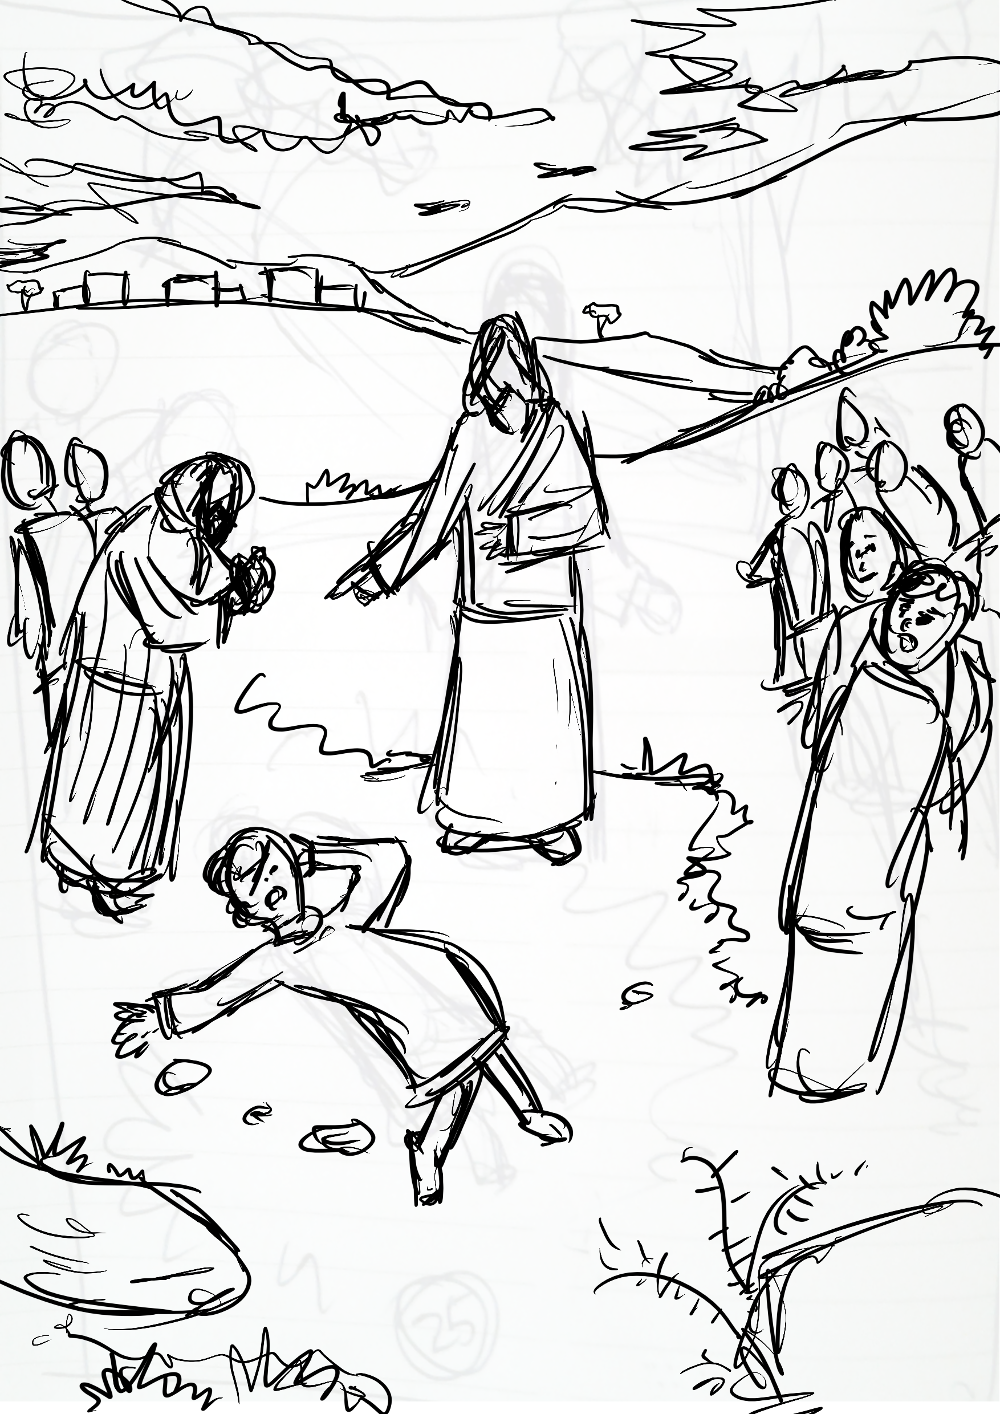
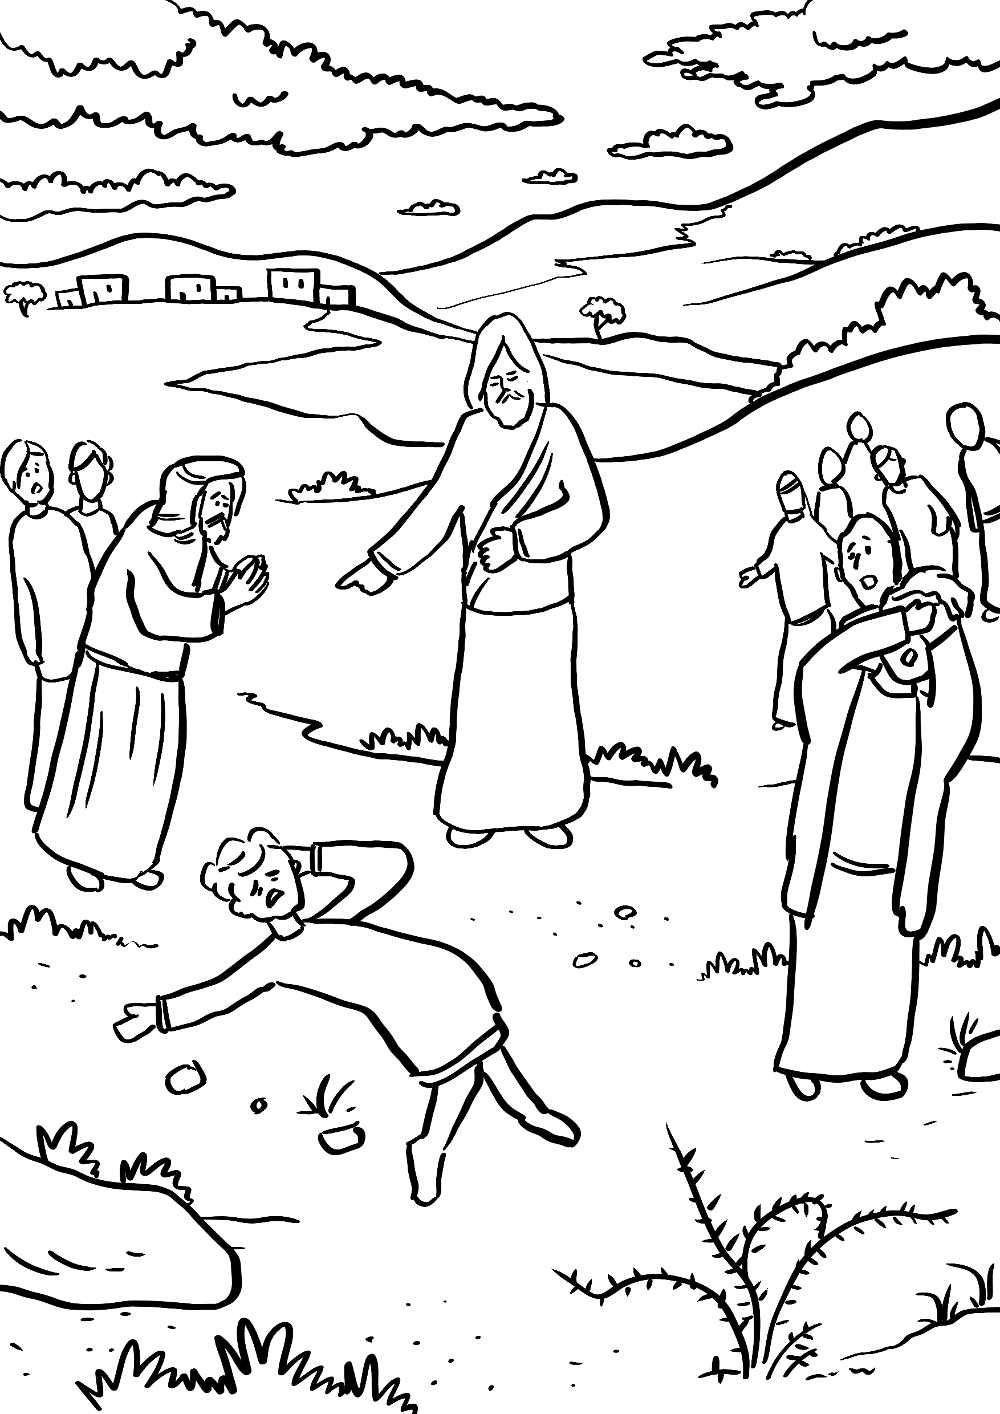
Update 25.

diff --git a/script.js b/script.js
@@ -3,7 +3,7 @@ angular.module('galleryApp', [])
     var gallery = this;
     gallery.language = "ro";
     gallery.work_start_date = new Date(2017,02,12);
-    gallery.worked_hours = 87;  // EDIT HERE
+    gallery.worked_hours = 87.5;  // EDIT HERE
 
     gallery.get_global_progress = function() {
       var index;
@@ -449,7 +449,7 @@ angular.module('galleryApp', [])
       {
         id: 25,
         img: '25.png',
-        done: 50,
+        done: 100,
         title: {
           ro: "Vindecarea unui copil lunatic",
           en: "Healing of the lunatic child"
